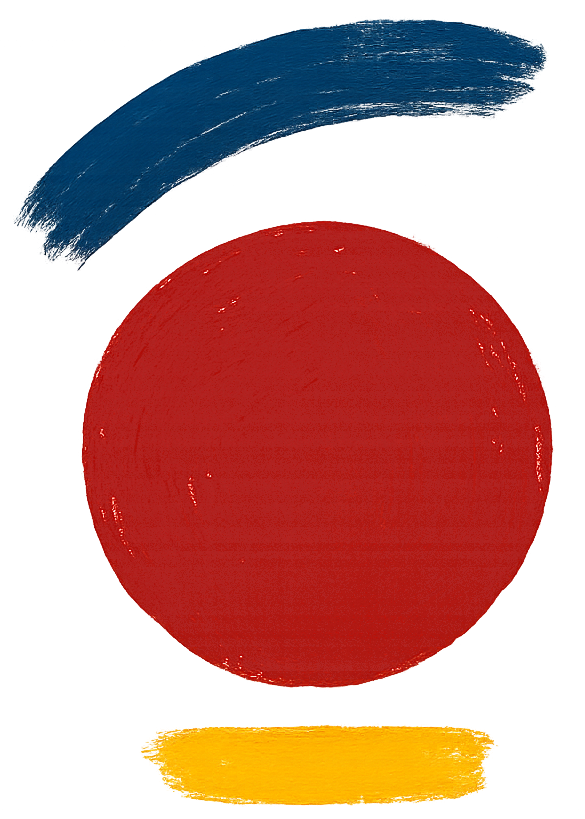
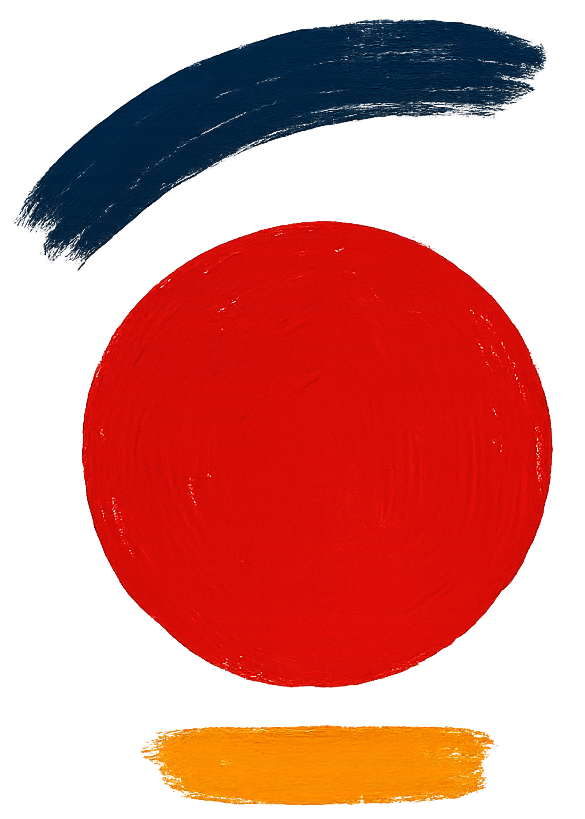
update mobile navbar spacing

diff --git a/app/components/Navbar.css b/app/components/Navbar.css
@@ -250,7 +250,13 @@
 
 @media (max-width: 767px) {
   .dropdown__about-wrapper {
-    margin-top: 0.5rem;
+    margin-top: 0;
+    margin-bottom: 2.5rem;
+  }
+}
+
+@media (max-width: 767px) {
+  .dropdown__title {
     margin-bottom: 2rem;
   }
 }